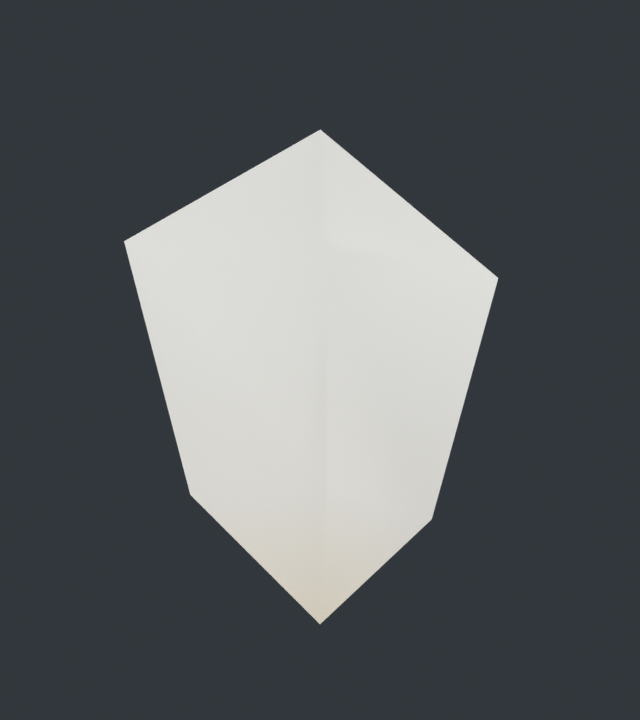
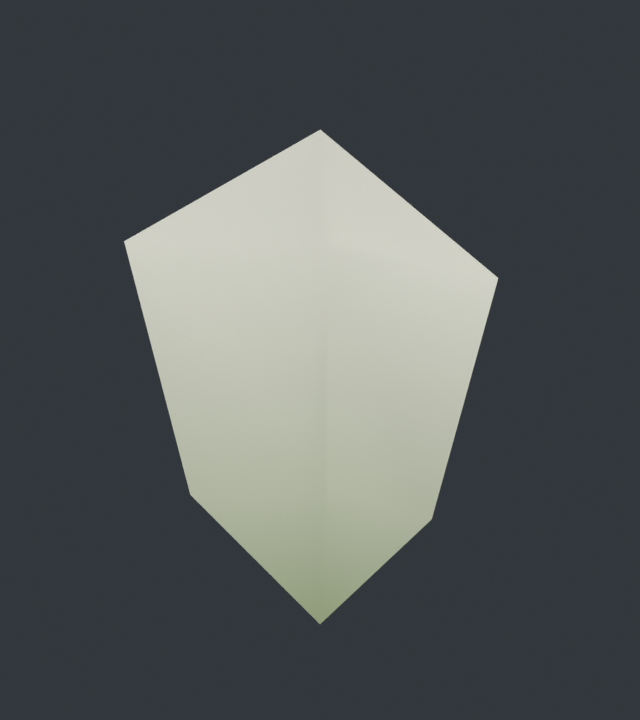
feat(courtyard): refine petal tint and gradient

Changed region(s): [[0.2188, 0.3667, 0.7812, 0.8556]]

diff --git a/experiments/courtyard02/tools/create_white_petal.py b/experiments/courtyard02/tools/create_white_petal.py
@@ -63,14 +63,21 @@ for loop in mesh.loops:
     uv_layer.data[loop.index].uv = uvs[loop.vertex_index]
 
 colors = mesh.color_attributes.new(name="PetalTint", type="FLOAT_COLOR", domain="POINT")
+
+
+def srgb_to_linear(value):
+    return value / 12.92 if value <= 0.04045 else ((value + 0.055) / 1.055) ** 2.4
+
+
+# Brightened from the bright-half median of 215 likely flower reference splats.
+cream = tuple(srgb_to_linear(c / 255.0) for c in (238, 237, 224))
+base_green = tuple(srgb_to_linear(c / 255.0) for c in (166, 181, 138))
 for index, (_, t) in enumerate(uvs):
-    warmth = math.exp(-t * 7.0)
-    colors.data[index].color = (
-        0.98 - 0.06 * warmth,
-        0.97 - 0.13 * warmth,
-        0.93 - 0.24 * warmth,
-        1.0,
-    )
+    blend = min(1.0, t / 0.5)
+    blend = blend * blend * (3.0 - 2.0 * blend)
+    colors.data[index].color = tuple(
+        base + (tip - base) * blend for base, tip in zip(base_green, cream)
+    ) + (1.0,)
 material = bpy.data.materials.new("IvoryWhitePetal")
 material.use_nodes = True
 material.use_backface_culling = False

diff --git a/experiments/courtyard02/src/petal.rs b/experiments/courtyard02/src/petal.rs
@@ -174,7 +174,11 @@ impl Petal {
             include_str!("petal-shadow.wgsl")
         );
         let shadow_draw = Draw::new(device, &depth_source, &mesh, depth_options);
-        let camera = Buffer::create(device, 80, BufferUsage::uniform(), "PetalCamera");
+        let camera = Buffer::create(device, 112, BufferUsage::uniform(), "PetalCamera");
+        let base = data.vertices.iter().min_by(|a, b| a[7].total_cmp(&b[7])).unwrap();
+        let tip = data.vertices.iter().max_by(|a, b| a[7].total_cmp(&b[7])).unwrap();
+        camera.write(device, &base[8..12], 80);
+        camera.write(device, &tip[8..12], 96);
         let flow = VortexFlow::new(device, MAX_PETALS, &camera)?;
         let bindings = std::array::from_fn(|i| {
             BindGroup::create(

diff --git a/experiments/courtyard02/README.md b/experiments/courtyard02/README.md
@@ -13,13 +13,15 @@ The read-only `FPS` display averages animation-frame intervals and refreshes eve
 
 ## Petal model
 
-`assets/white-petal.blend` is the editable rounded white petal, with a cupped surface, a shallow center fold, and a warm ivory base. `public/white-petal.glb` is the portable model. Both contain the same 8-vertex, 8-triangle mesh, designed for petals around 0.02 scene units long and particle instancing. Two interior rows preserve the cupped shape; smooth normals soften the low-poly surface. The asset retains UVs, linear vertex colors, and a double-sided material without image textures. The shader uses simple lighting without fine vein calculations. The enlarged studio preview exposes the coarser outline; the model is intended for small on-screen petals.
+`assets/white-petal.blend` is the editable rounded white petal, with a cupped surface, a shallow center fold, a cream body, and a pale yellow-green base. `public/white-petal.glb` is the portable model. Both contain the same 8-vertex, 8-triangle mesh, designed for petals around 0.02 scene units long and particle instancing. Two interior rows preserve the cupped shape; smooth normals soften the low-poly surface. The asset retains UVs, linear vertex colors, and a double-sided material without image textures. The shader uses simple lighting without fine vein calculations. The enlarged studio preview exposes the coarser outline; the model is intended for small on-screen petals.
+
+The body tint is sRGB `#EEEDE0`, slightly brightened from the sampled `#E3E2D4` (the rounded channel-wise median of the brighter half of the 215 likely flower reference splats in `courtyard1.ply`). The authored base tint is sRGB `#A6B58A`, blending into cream toward the tip. The generator converts these colors to linear space before storing vertex colors in the Blender model, GLB, and runtime mesh; the renderer reads the root and tip colors from the minimum and maximum UV-Y vertices, then evaluates `smoothstep(0, 0.5, UV.y)` per fragment. The second half of the petal uses the body tint throughout, independently of the sparse mesh vertices. The portable model retains an approximation baked into vertex colors. The renderer applies its existing lighting and sRGB output conversion. This approximates the scanned flowers' palette; their baked lighting still differs from the simulated petals' dynamic lighting.
 
 The renderer loads `public/white-petal.mesh.json`, exported from that same Blender mesh, through the existing Belfast `Mesh`/`Draw` API. The asset's local base is at the origin, its tip points along +Y, its front is +Z, and its length is 1 unit. Instances rotate this local mesh and its normals with their quaternion, then translate it to the flower source position plus jitter.
 
 Tweakpane's `Petals` folder controls visibility, size, and `Count`: initially 50,000 petals, adjustable to 100,000 in steps of 1,000. Size remains 0.02 scene units by default (range 0.005–0.05, step 0.001). Petals are distributed evenly across all 312 imported flower positions, with independent random offsets of ±0.01 per axis, an additional uniform world-space Z offset in (-0.2, 0], and uniformly sampled unit quaternions in xyzw order. Initialization uses a fixed random seed so the layout is repeatable. The fitted shadow bounds include the entire negative-Z spawn range.
 
-All petals share one mesh and one indexed instanced draw. Two storage buffers reserve 100,000 slots each (80 bytes per slot: position/scale, quaternion, velocity/age, source/lifetime, and spin axis/rate), but only the active count is initialized at startup. Increasing the count initializes and uploads only previously unused slots; reducing it reduces the simulation and draw count without resetting existing particles. The camera and global size use an 80-byte uniform, and particle state is not uploaded every frame.
+All petals share one mesh and one indexed instanced draw. Two storage buffers reserve 100,000 slots each (80 bytes per slot: position/scale, quaternion, velocity/age, source/lifetime, and spin axis/rate), but only the active count is initialized at startup. Increasing the count initializes and uploads only previously unused slots; reducing it reduces the simulation and draw count without resetting existing particles. The camera, global size, and two tint endpoints use a 112-byte uniform, and particle state is not uploaded every frame.
 
 Petals write depth before splat rendering, so nearer splats can blend over them; the splats use center-depth testing, as in `experiments/particles`. `Flower debug` toggles the source spheres and defaults to disabled; when enabled, the spheres retain their In Front overlay behavior.
 
